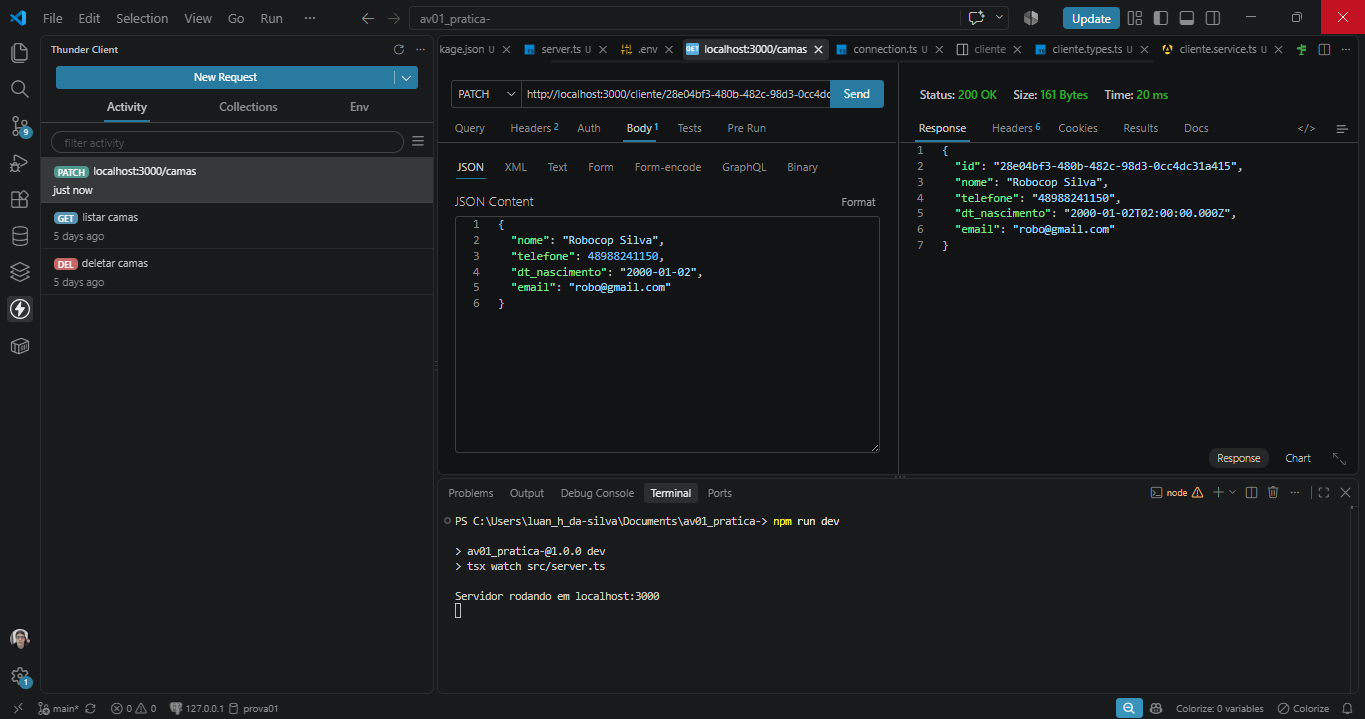
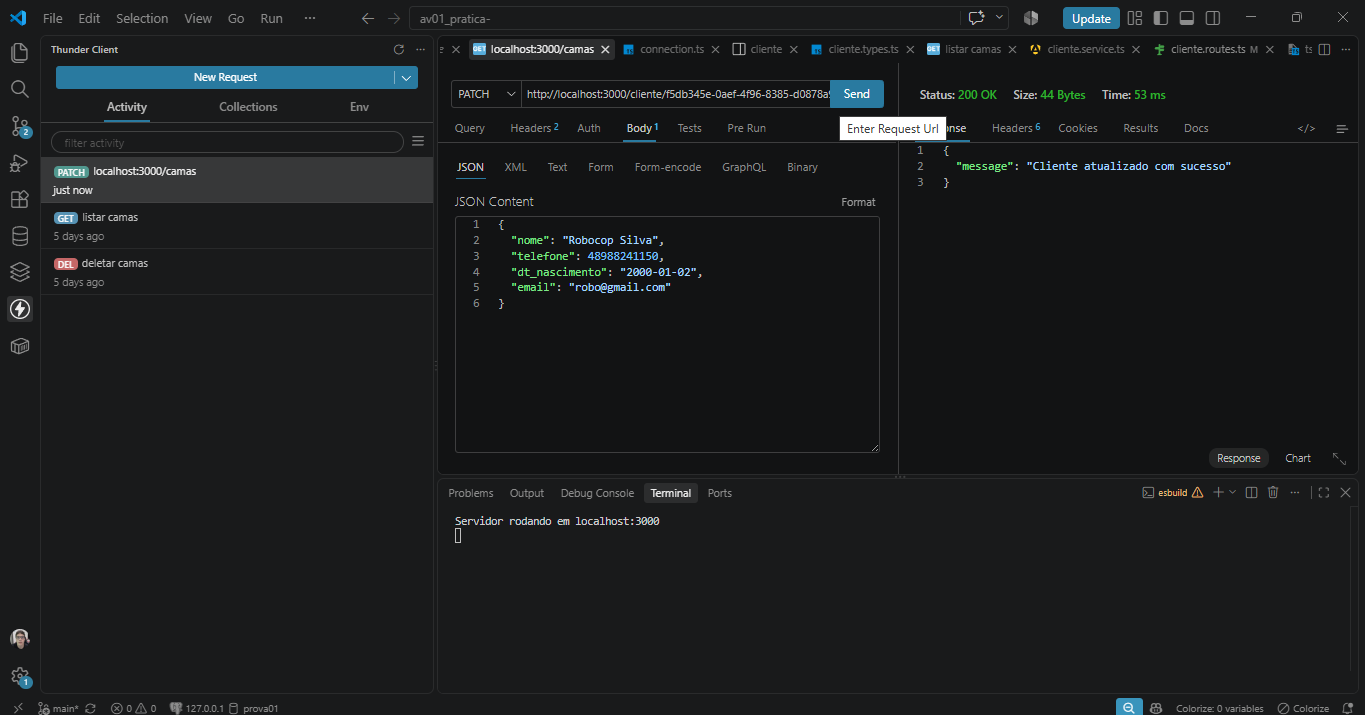
fix: ajuste env e imagens

diff --git a/src/routes/cliente.routes.ts b/src/routes/cliente.routes.ts
@@ -45,8 +45,10 @@ clienteRouter.patch("/:id", async (request: Request<{ id: string, dados: CriarCl
     const id = request.params.id
     const dados = request.body
 
+    await clienteService.update(id, dados)
+
     try {
-        return response.status(200).json(await clienteService.update(id, dados))
+        return response.status(200).json({message: "Cliente atualizado com sucesso"})
     }
     catch (error) {
         return response.status(500).json({ message: "Erro interno" })
@@ -57,9 +59,10 @@ clienteRouter.patch("/:id", async (request: Request<{ id: string, dados: CriarCl
 clienteRouter.delete("/:id", async (request: Request<{ id: string }, {}, {}>, response: Response) => {
 
     const id = request.params.id
+    await clienteService.delete(id)
 
     try {
-        return response.status(200).json(await clienteService.delete(id))
+        return response.status(200).json({message: "Cliente deletado com sucesso"})
     }
     catch (error) {
         return response.status(500).json({ message: "Erro interno" })
